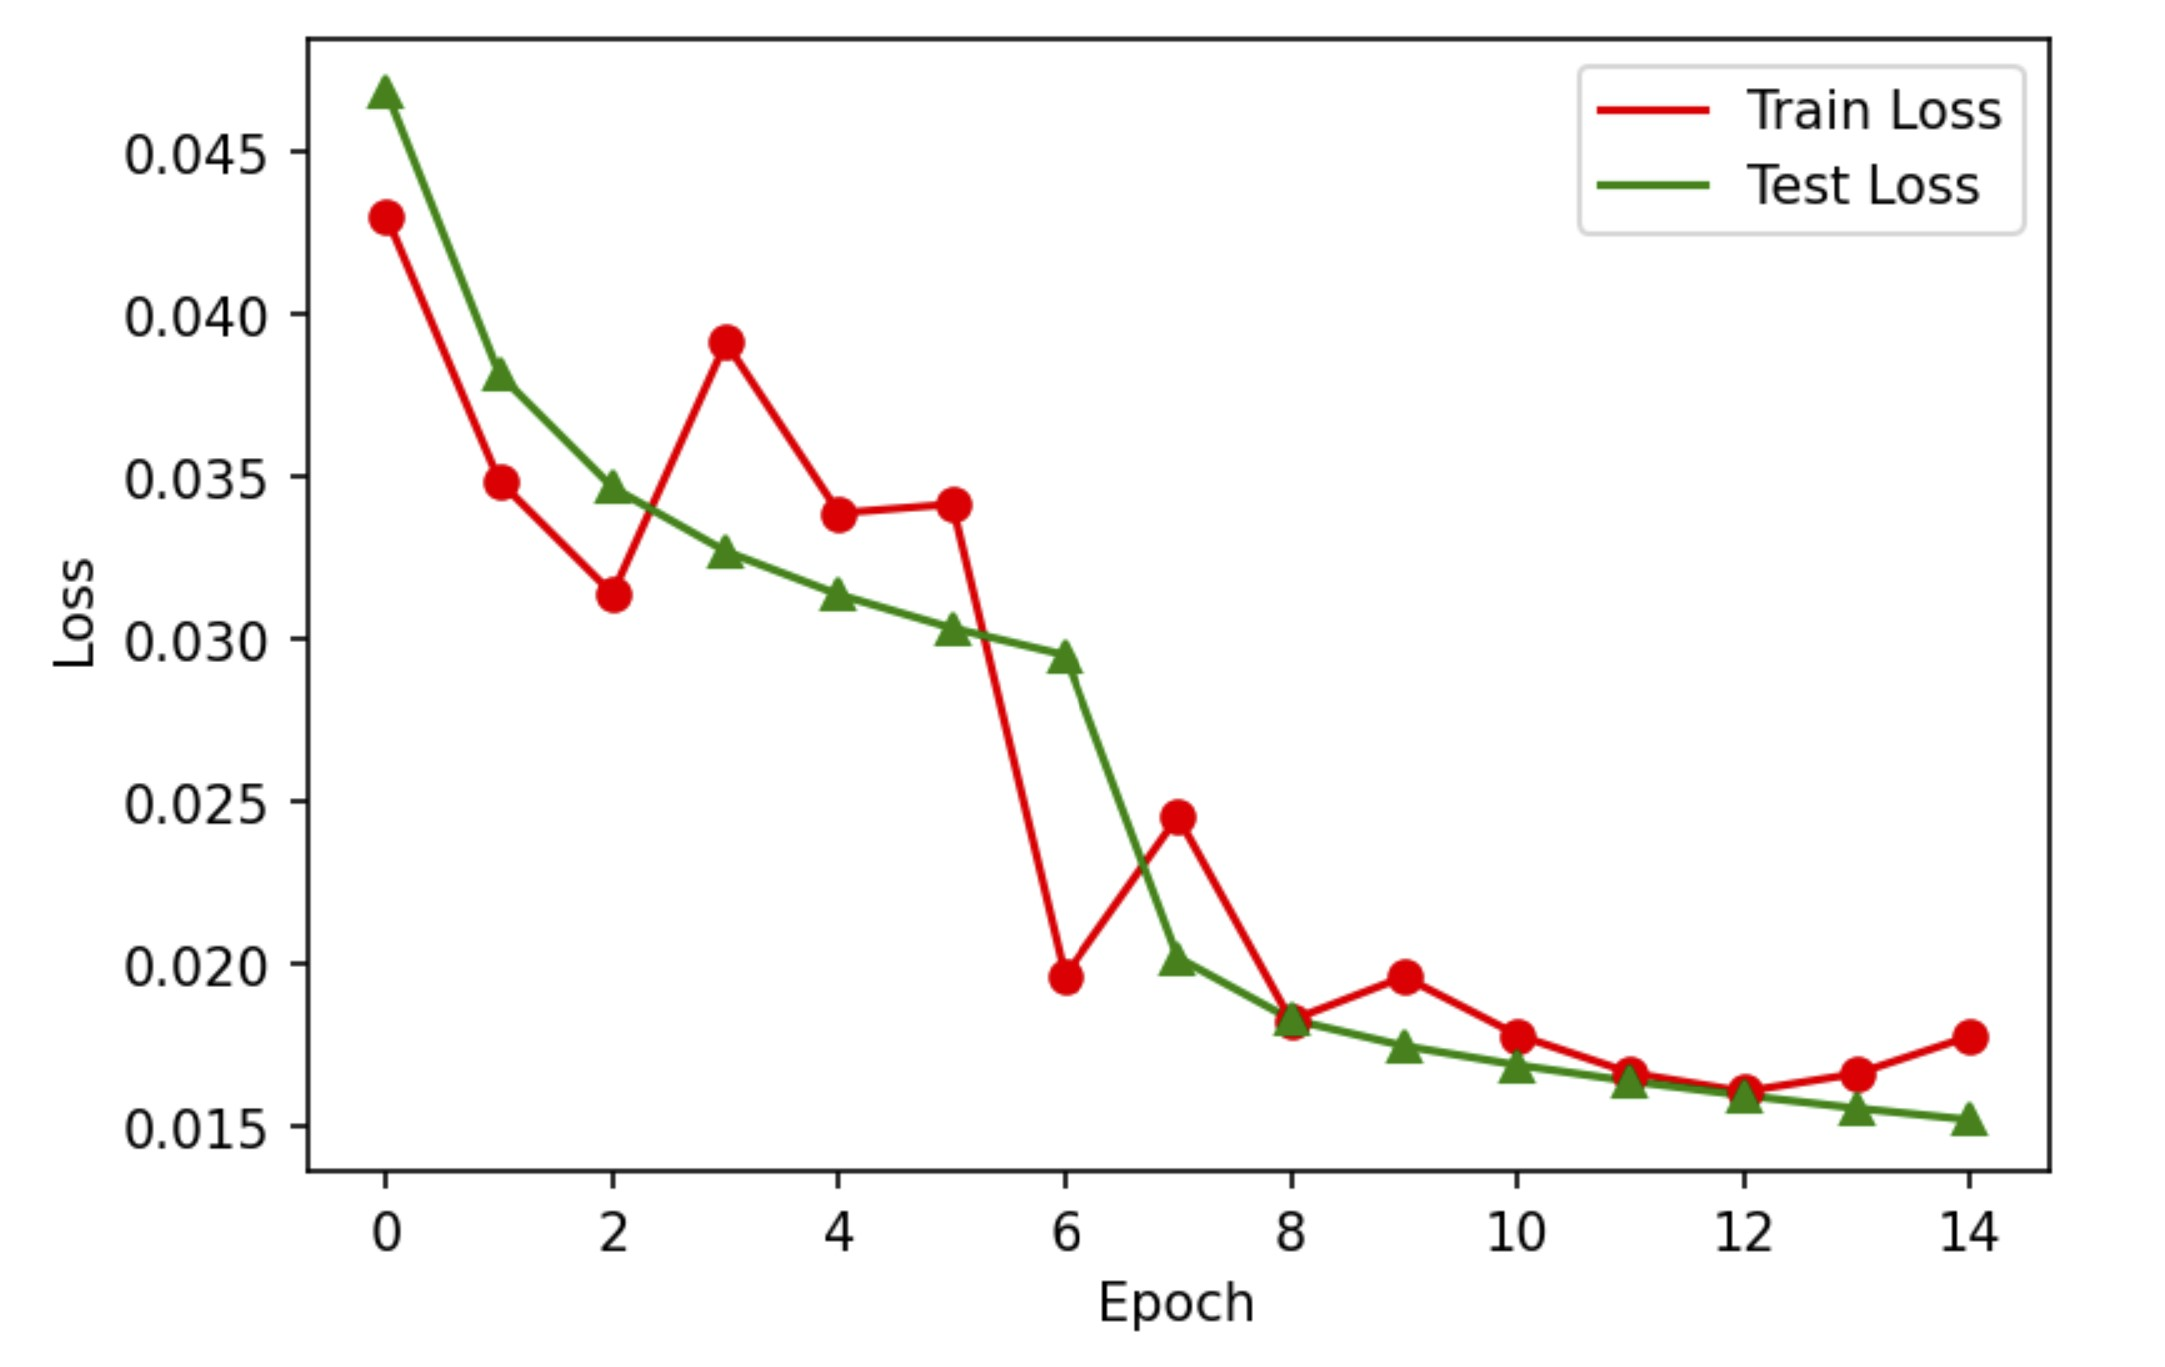
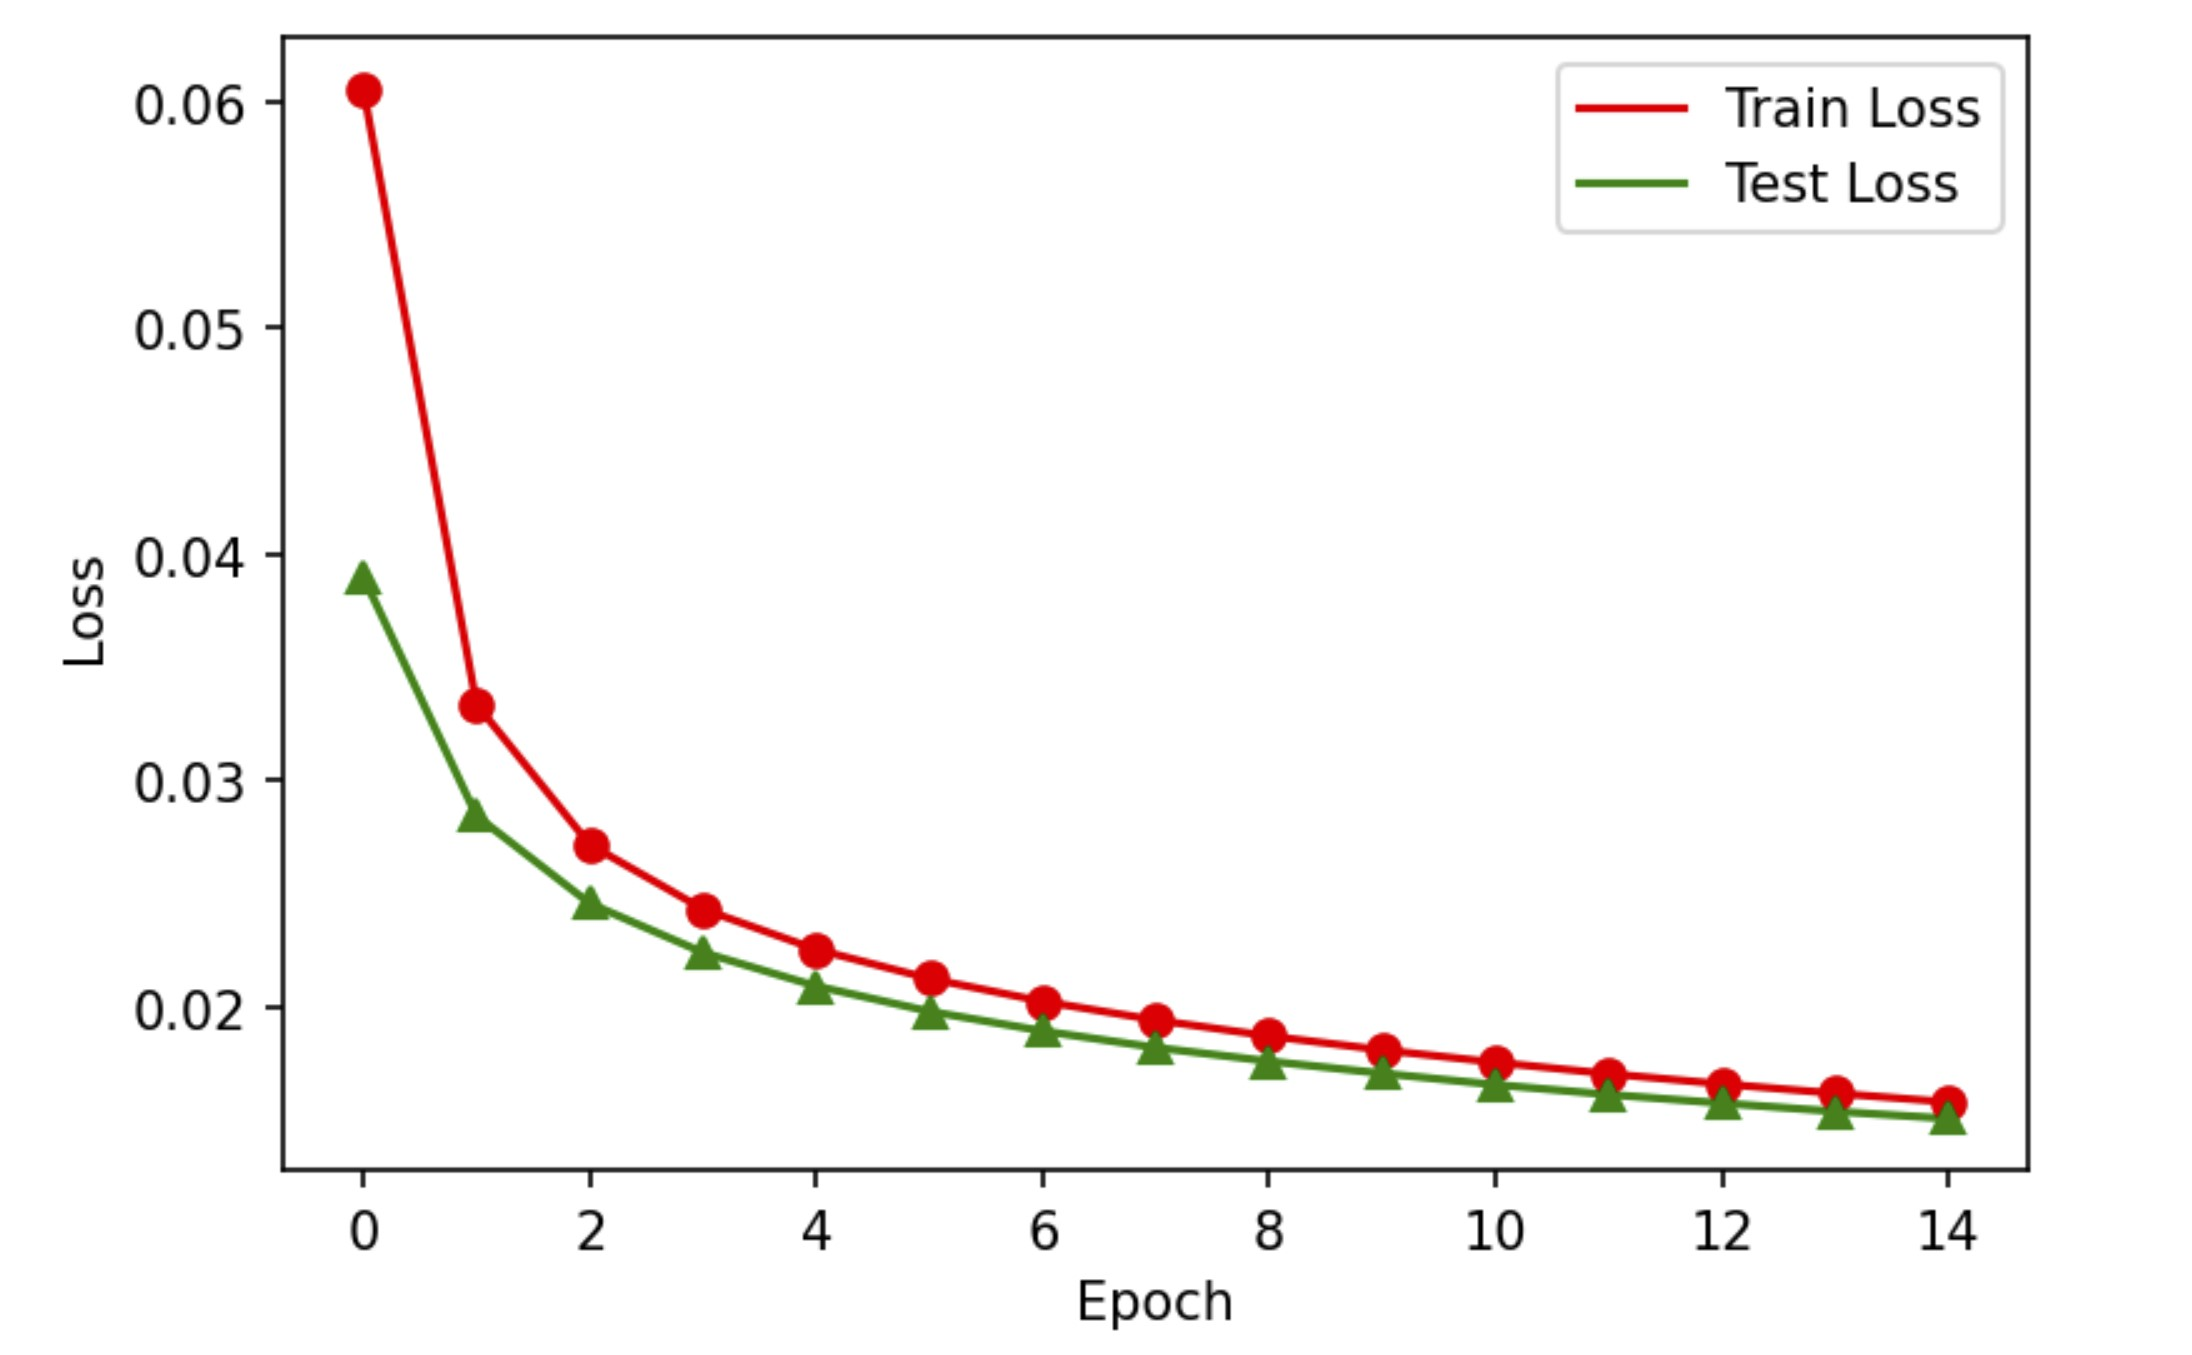
update hw1 report
step2 mse

Changed region(s): [[0.0309, 0.0, 0.9594, 0.9919], [0.3095, 0.217, 0.3714, 0.341], [0.7118, 0.124, 0.7427, 0.155]]

diff --git a/Hw1/hw1_report.md b/Hw1/hw1_report.md
@@ -65,7 +65,7 @@
 | --------------- | ----- | 
 | num_epochs | 15 |
 | lr | 0.01 |
-| logging_steps | 64 | 
+| logging_steps | 100 | 
 | best_acc | 0.0 | 
 
 ### 使用CrossEntropyLoss损失函数
@@ -98,7 +98,7 @@ loss = criterion.forward(outputs, onehot_encoding(targets, 10))
 
 ![](result/step2_mse_1.jpg)
 
-最后一轮迭代中测试集损失为0.020，准确率为88.3%，最终模型的最佳准确率为93.4%.
+最后一轮迭代中测试集损失为0.015，准确率为93.5%，最终模型的最佳准确率为93.5%.
 
 绘制训练集和测试集上的损失和准确率曲线如下图所示：
 
